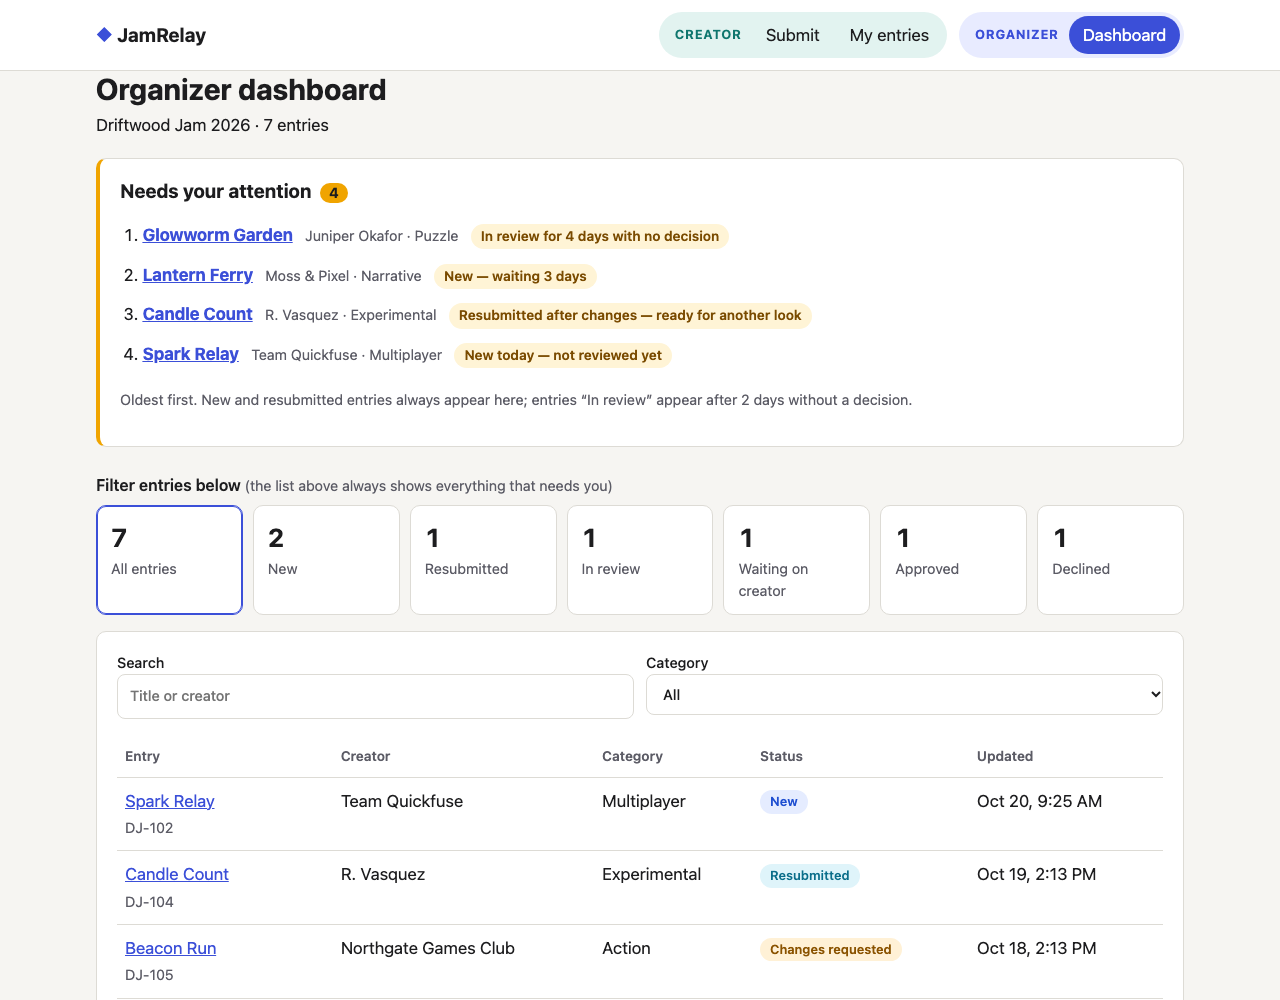
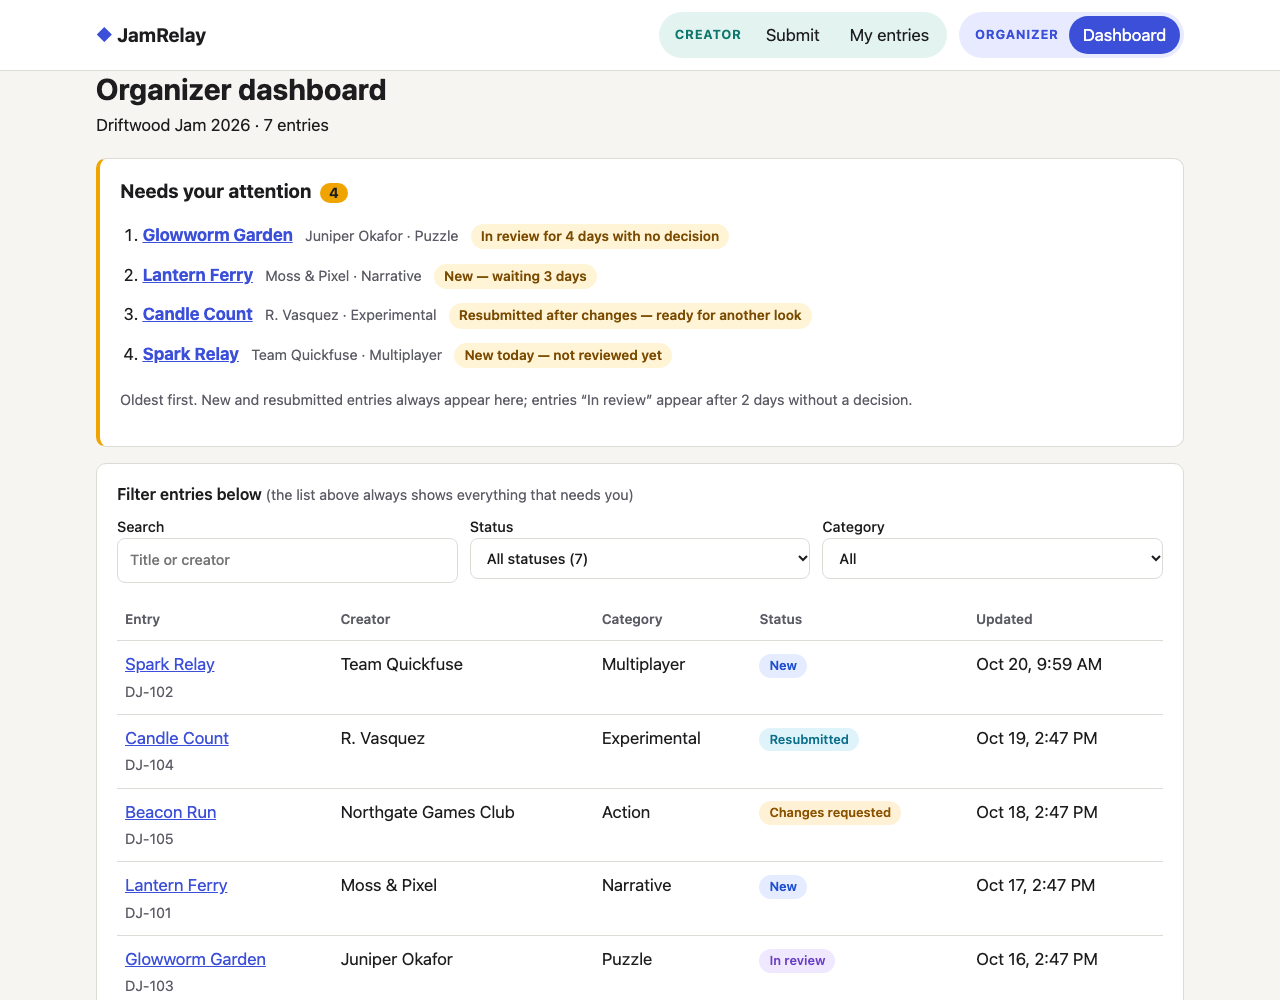
Replace dashboard status tiles with a Status dropdown
Counts move into the options (e.g. \"New (2)\") beside Search and Category,
so \"Needs your attention\" stays the most prominent part of the page.
Updates the smoke test (now 35 checks), docs and dashboard screenshot.

diff --git a/js/app.js b/js/app.js
@@ -421,8 +421,8 @@
     const counts = R.countByStatus(entries);
     const attention = R.needsAttention(entries, now);
 
-    const tiles = [
-      { key: '', label: 'All entries', n: entries.length },
+    const statuses = [
+      { key: '', label: 'All statuses', n: entries.length },
       { key: 'submitted', label: 'New', n: counts.submitted },
       { key: 'resubmitted', label: 'Resubmitted', n: counts.resubmitted },
       { key: 'in_review', label: 'In review', n: counts.in_review },
@@ -456,20 +456,15 @@
         }
       </section>
 
-      <h2 class="filter-scope" id="filter-scope">Filter entries below <span class="muted small">(the list above always shows everything that needs you)</span></h2>
-      <div class="tiles" role="group" aria-labelledby="filter-scope">
-        ${tiles
-          .map(
-            (t) => `<button type="button" class="tile${dashFilter.status === t.key ? ' is-active' : ''}" data-status="${t.key}" aria-pressed="${dashFilter.status === t.key}">
-              <span class="tile-n">${t.n}</span><span class="tile-label">${esc(t.label)}</span>
-            </button>`
-          )
-          .join('')}
-      </div>
-
-      <section class="card">
+      <section class="card" aria-labelledby="filter-scope">
+        <h2 class="filter-scope" id="filter-scope">Filter entries below <span class="muted small">(the list above always shows everything that needs you)</span></h2>
         <div class="filters">
           <label>Search <input id="q" type="search" placeholder="Title or creator" value="${esc(dashFilter.q)}"></label>
+          <label>Status
+            <select id="status">${statuses.map(
+              (t) => `<option value="${t.key}"${dashFilter.status === t.key ? ' selected' : ''}>${esc(t.label)} (${t.n})</option>`
+            ).join('')}</select>
+          </label>
           <label>Category
             <select id="cat"><option value="">All</option>${R.CATEGORIES.map(
               (c) => `<option${dashFilter.category === c ? ' selected' : ''}>${esc(c)}</option>`
@@ -503,15 +498,8 @@
         : '<p class="muted">No entries match these filters.</p>';
     }
 
-    view.querySelector('.tiles').addEventListener('click', (e) => {
-      const t = e.target.closest('[data-status]');
-      if (!t) return;
-      dashFilter.status = t.dataset.status;
-      view.querySelectorAll('.tile').forEach((el) => {
-        const on = el.dataset.status === dashFilter.status;
-        el.classList.toggle('is-active', on);
-        el.setAttribute('aria-pressed', String(on));
-      });
+    document.getElementById('status').addEventListener('change', (e) => {
+      dashFilter.status = e.target.value;
       drawTable();
     });
     document.getElementById('q').addEventListener('input', (e) => {

diff --git a/css/styles.css b/css/styles.css
@@ -192,17 +192,11 @@ blockquote { margin: 0.5rem 0; padding: 0.5rem 0.9rem; border-left: 3px solid va
 .attention-list li > * { margin-right: 0.5rem; }
 .reason { color: var(--warn-text); background: var(--warn-bg); font-size: 0.85rem; font-weight: 600; padding: 2px 10px; border-radius: 999px; display: inline-block; }
 
-.filter-scope { font-size: 1rem; font-weight: 600; margin: 28px 0 10px; }
+.filter-scope { font-size: 1rem; font-weight: 600; margin: 0 0 12px; }
 .filter-scope .small { font-weight: 400; }
-.tiles { display: grid; grid-template-columns: repeat(auto-fill, minmax(130px, 1fr)); gap: 10px; margin-bottom: 16px; }
-.tile { font: inherit; text-align: left; background: var(--surface); color: var(--text); border: 1.5px solid var(--border); border-radius: var(--radius); padding: 12px 14px; cursor: pointer; display: flex; flex-direction: column; }
-.tile:hover { border-color: var(--accent); }
-.tile.is-active { border-color: var(--accent); box-shadow: inset 0 0 0 1px var(--accent); }
-.tile-n { font-size: 1.6rem; font-weight: 700; font-variant-numeric: tabular-nums; }
-.tile-label { font-size: 0.9rem; color: var(--muted); }
 
 .filters { display: flex; gap: 12px; flex-wrap: wrap; margin-bottom: 12px; }
-.filters label { font-weight: 500; font-size: 0.9rem; flex: 1 1 200px; }
+.filters label { font-weight: 500; font-size: 0.9rem; flex: 1 1 180px; }
 .table-wrap { overflow-x: auto; }
 table { width: 100%; border-collapse: collapse; }
 th, td { text-align: left; padding: 10px 8px; border-bottom: 1px solid var(--border); vertical-align: top; }

diff --git a/tests/smoke.html b/tests/smoke.html
@@ -137,13 +137,16 @@
       await tick();
       check('saving with nothing selected is blocked', /Choose a new status/.test(text('#r-error')) && store().get(entry.id).status === 'approved');
 
-      // 9. Dashboard filter tiles
+      // 9. Dashboard status filter
       await nav('#/dashboard');
       check('filter controls say they apply to the table below', /Filter entries below/.test(text('#filter-scope')));
-      $('.tile[data-status=approved]').click();
+      const opt = $$('#status option').find((o) => o.value === 'approved');
+      check('status options show counts', opt && /^Approved \(\d+\)$/.test(opt.textContent), opt && opt.textContent);
+      $('#status').value = 'approved';
+      $('#status').dispatchEvent(new Event('change', { bubbles: true }));
       await tick();
       const rows = $$('#table tbody tr');
-      check('status tile filters the table', rows.length > 0 && rows.every((tr) => /Approved/.test(tr.textContent)));
+      check('status filter narrows the table', rows.length > 0 && rows.every((tr) => /Approved/.test(tr.textContent)));
 
       // 10. Persistence
       frame.contentWindow.location.reload();

diff --git a/WRITEUP.md b/WRITEUP.md
@@ -28,7 +28,7 @@ A small tool for running game jam submissions. Creators submit an entry, the org
 
 ## 2. Scope: what I built, and what I deliberately left out
 
-**Built:** a submission form with a live "Ready to submit?" checklist; a creator view with status and feedback, plus edit and resubmit; an organizer dashboard (a needs-attention queue, status tiles, search and filter); a review screen where feedback is required for negative decisions; and a full history of every entry.
+**Built:** a submission form with a live "Ready to submit?" checklist; a creator view with status and feedback, plus edit and resubmit; an organizer dashboard (a needs-attention queue, plus a table filtered by search, status and category); a review screen where feedback is required for negative decisions; and a full history of every entry.
 
 | Left out | Why |
 |---|---|
@@ -67,7 +67,7 @@ There are three layers of automated tests, plus manual checks in a real browser.
 | **Review rules** | Feedback is required to request changes or decline. Impossible status changes are blocked. | rules, API, smoke |
 | **Safety** | A title containing HTML is shown as text, not run. The server won't serve its own code or the database file. | smoke, API |
 
-**Totals:** 23 rule tests, 23 API and database tests, and 34 end-to-end browser checks, all passing (last run 2026-10-20; the browser checks ran in headless Chrome).
+**Totals:** 23 rule tests, 23 API and database tests, and 35 end-to-end browser checks, all passing (last run 2026-10-20; the browser checks ran in headless Chrome).
 
 **Layout:** on 2026-10-20 the submit, My entries, dashboard and review screens were checked from screenshots at desktop (1280px) and phone (390px) width, in dark mode. No screen scrolls sideways, and on a phone the dashboard table scrolls inside its own box. Light mode was checked on the submit and dashboard screens at desktop width (the README screenshots). Not yet checked: light mode on a phone, and the resubmission form at phone width.
 
@@ -100,8 +100,9 @@ Each fix got a new end-to-end check. I also ran the updated test against the cod
 |---|---|---|
 | With browser storage blocked, the form still said "Draft saved", and after submitting, the creator landed on "Entry not found". The entry *was* saved on the server, but the browser couldn't remember it was theirs. | Saving now reports whether it worked. If it didn't, the form warns that drafts will be lost. After submitting, the creator sees a confirmation with their entry ID instead of an error page. | The app was telling people something untrue at the exact moment they needed to trust it. |
 | The acceptance criteria said duplicate titles ignore "extra spaces", but `Lantern  Ferry` (two spaces) was accepted next to `Lantern Ferry`. | Narrowed AC5 to "spaces at the start or end", which is what the app actually checks. | A documentation fix was enough. Treating repeated inner spaces as the same title is a reasonable scope cut. |
+| Seven large status tiles gave counts and filters more visual weight than a seven-entry demo needs. | Replaced the tiles with a compact Status dropdown next to Search and Category, with counts in the options, such as "New (2)". | The queue is what tells the organizer what to do next, so it should be the most prominent thing on the page. |
 
-The storage check is new in the end-to-end test (now 34 checks). Against the code before the fix, 2 of the new checks failed: "Draft saved" and "Entry not found". With the fix, all 34 pass.
+The storage check is new in the end-to-end test (now 34 checks). Against the code before the fix, 2 of the new checks failed: "Draft saved" and "Entry not found". With the fix, all 34 pass. The Status dropdown also has its own check, bringing the total to 35.
 
 **Round 2: real people (planned).** Two people, about 10 minutes each, thinking aloud. One plays a creator, one plays the organizer. I watch and don't help.
 

diff --git a/README.md b/README.md
@@ -8,7 +8,7 @@ The jam ("Driftwood Jam 2026"), the creators and the entries are all fictional.
 
 | Creator: the live "Ready to submit?" checklist | Organizer: what needs attention, oldest first |
 |---|---|
-| ![Submit form with a checklist flagging a link that's missing https://](docs/creator-submit.png) | ![Organizer dashboard with the "Needs your attention" queue and status tiles](docs/organizer-dashboard.png) |
+| ![Submit form with a checklist flagging a link that's missing https://](docs/creator-submit.png) | ![Organizer dashboard with the "Needs your attention" queue and the entries table](docs/organizer-dashboard.png) |
 
 ## The idea
 
@@ -47,7 +47,7 @@ Then open <http://localhost:8000>. The app creates a SQLite database at `data/ja
 |---|---|
 | Creator | Submit a title, category, description and playable link. A live checklist shows what's missing before you submit. Your draft is saved as you type. |
 | Creator | Open **My entries** to see each entry's status and the organizer's feedback. If changes were requested, you can edit the entry and resubmit it. |
-| Organizer | Use the **Dashboard**. It shows a "Needs your attention" list (oldest first), status tiles that filter the table, and search plus a category filter. |
+| Organizer | Use the **Dashboard**. It shows a "Needs your attention" list (oldest first), and a table of all entries you can filter by search, status (with counts) and category. |
 | Organizer | Open an entry and move it to *In review*, *Changes requested*, *Approved* or *Declined*. Feedback is required when you request changes or decline. Every step is kept in the entry's history. |
 
 ## How it fits together
@@ -84,4 +84,4 @@ python3 -m unittest discover -s tests -v   # API + database: 23 tests
 With the server running, you can also open these pages:
 
 - <http://localhost:8000/tests/index.html>: the same rule tests, run in the browser
-- <http://localhost:8000/tests/smoke.html>: an end-to-end test that drives the real app from submission through review, requested changes and resubmission to approval (34 checks). **It resets the demo data.**
+- <http://localhost:8000/tests/smoke.html>: an end-to-end test that drives the real app from submission through review, requested changes and resubmission to approval (35 checks). **It resets the demo data.**

diff --git a/CLAUDE.md b/CLAUDE.md
@@ -4,7 +4,7 @@ Portfolio project for a **PM internship application**. A small creator-submissio
 
 ## What exists
 - **Creator:** a submit form (title, category, description, playable link, name) with a live "Ready to submit?" checklist, a draft that autosaves, and "My entries" showing status and feedback, with edit and resubmit when changes are requested.
-- **Organizer:** a dashboard with a "Needs your attention" queue (oldest first), status tiles that filter the table, search and a category filter. The review screen changes status; feedback is required for *Changes requested* and *Declined*. Each entry keeps an append-only history.
+- **Organizer:** a dashboard with a "Needs your attention" queue (oldest first), and an entries table filtered by search, a Status dropdown (with counts) and category. The review screen changes status; feedback is required for *Changes requested* and *Declined*. Each entry keeps an append-only history.
 - **Statuses:** submitted (shown as "New"), in_review, changes_requested, resubmitted, approved, declined. Allowed moves are in `ORGANIZER_NEXT`.
 
 ## Architecture (no installs; Python 3 standard library plus vanilla JS)
@@ -17,7 +17,7 @@ Portfolio project for a **PM internship application**. A small creator-submissio
 - Run: `python3 server.py`, then open http://localhost:8000
 - `python3 -m unittest discover -s tests`: 23 API and database tests
 - `./tests/run.sh`: 23 rule tests (macOS JavaScriptCore). Same tests in the browser at `/tests/index.html`
-- `/tests/smoke.html` with the server running: 34 end-to-end browser checks (it resets the demo data)
+- `/tests/smoke.html` with the server running: 35 end-to-end browser checks (it resets the demo data)
 - All of these passed as of 2026-10-20.
 
 ## Write-up (`WRITEUP.md`): the most important deliverable
